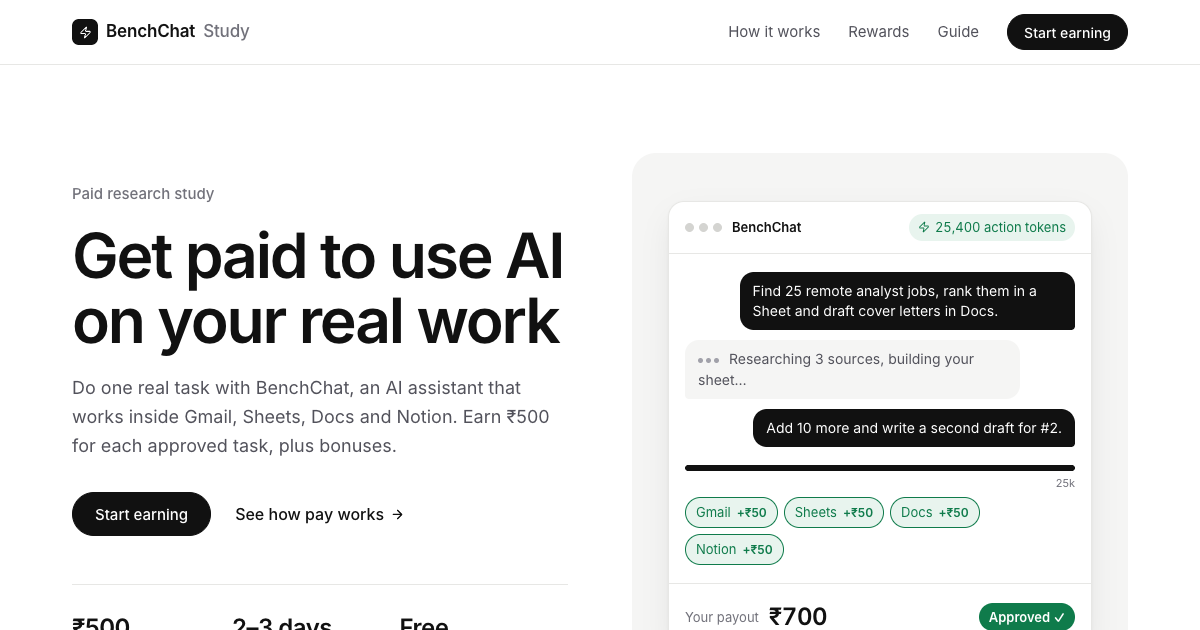
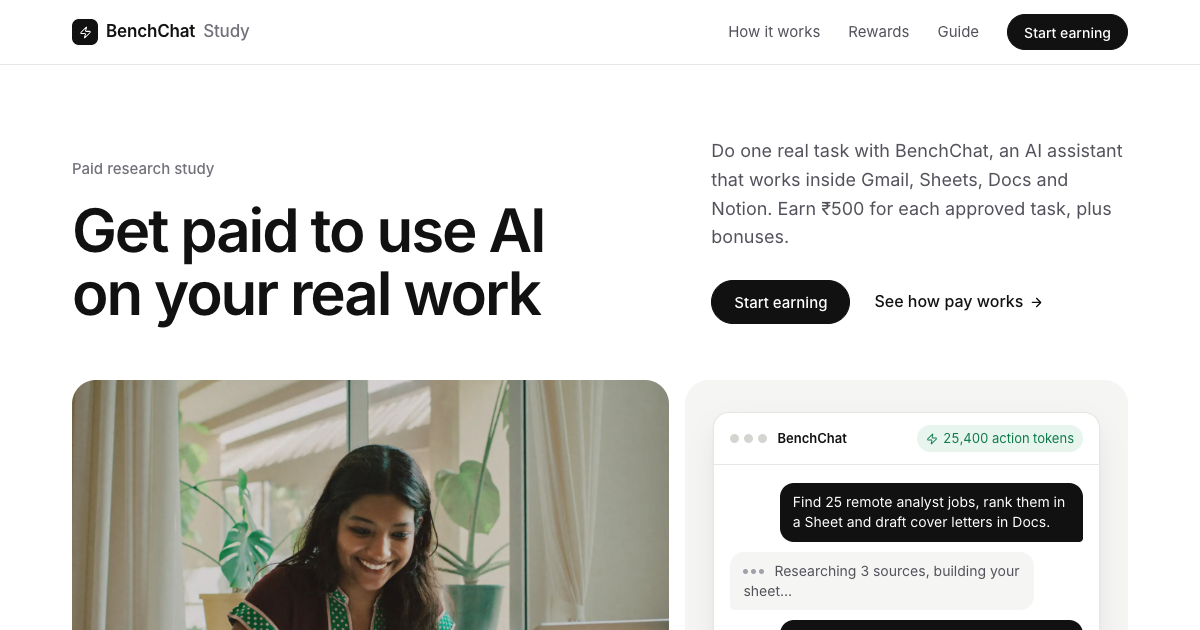
Redesign with Higgsfield-generated photography
Hero now pairs a Higgsfield (Soul V2) photo with the payout demo, adds a
'Who it's for' section and a pay section with a phone photo and a payment
toast, and a four-stat facts row. Photos stored as WebP under media/photos.

diff --git a/src/App.jsx b/src/App.jsx
@@ -1,7 +1,7 @@
 import { useEffect, useState } from 'react'
 import {
   LINKS, VIDEO, BEFORE, 
-  STEPS, TOKENS, PROMPTS, REQUIREMENTS, IDEAS, REWARDS, BONUS_APPS, QUEST,
+  STEPS, TOKENS, PHOTOS, PROMPTS, REQUIREMENTS, IDEAS, REWARDS, BONUS_APPS, QUEST,
 } from './content'
 
 const ext = { target: '_blank', rel: 'noopener noreferrer' }
@@ -139,27 +139,56 @@ function Demo() {
 function Hero() {
   return (
     <header className="hero" id="top">
-      <div className="wrap hero-grid">
-        <div className="hero-copy">
-          <p className="eyebrow">Paid research study</p>
-          <h1>Get paid to use AI on your real work</h1>
-          <p className="lede">
-            Do one real task with BenchChat, an AI assistant that works inside Gmail, Sheets, Docs and Notion.
-            Earn ₹{REWARDS.base} for each approved task, plus bonuses.
-          </p>
-          <div className="cta">
-            <a className="btn primary" href="#quest">Start earning</a>
-            <a className="text-link" href="#payment">See how pay works <Icon name="arrow" size={15} /></a>
+      <div className="wrap">
+        <div className="hero-top">
+          <div>
+            <p className="eyebrow">Paid research study</p>
+            <h1>Get paid to use AI on your real work</h1>
           </div>
-          <dl className="facts">
-            <div><dt>₹{REWARDS.base}</dt><dd>per approved task</dd></div>
-            <div><dt>2–3 days</dt><dd>to your bank or UPI</dd></div>
-            <div><dt>Free</dt><dd>no fees, ever</dd></div>
-          </dl>
+          <div className="hero-side">
+            <p className="lede">
+              Do one real task with BenchChat, an AI assistant that works inside Gmail, Sheets, Docs and Notion.
+              Earn ₹{REWARDS.base} for each approved task, plus bonuses.
+            </p>
+            <div className="cta">
+              <a className="btn primary" href="#quest">Start earning</a>
+              <a className="text-link" href="#payment">See how pay works <Icon name="arrow" size={15} /></a>
+            </div>
+          </div>
         </div>
-        <div className="stage"><Demo /></div>
+        <div className="hero-media">
+          <div className="photo"><img src={PHOTOS.hero} alt="A woman working on her laptop at home" width="1440" height="1080" /></div>
+          <div className="stage"><Demo /></div>
+        </div>
+        <dl className="facts">
+          <div><dt>₹{REWARDS.base}</dt><dd>per approved task</dd></div>
+          <div><dt>+₹{REWARDS.perApp}</dt><dd>for each app you use</dd></div>
+          <div><dt>2–3 days</dt><dd>to your bank or UPI</dd></div>
+          <div><dt>Free</dt><dd>no fees, ever</dd></div>
+        </dl>
       </div>
     </header>
+  )
+}
+
+function Who() {
+  const points = [
+    { title: 'Use your own apps', text: 'Gmail, Google Sheets, Docs, Notion, Slack. Whatever you already work in.' },
+    { title: 'Bring a real task', text: 'Something you would do anyway: research, a report, a tracker, a plan.' },
+    { title: 'About 30–45 minutes', text: 'From home, on a laptop. No coding and no experience with AI needed.' },
+  ]
+  return (
+    <section id="who">
+      <div className="wrap split">
+        <div className="photo tall"><img src={PHOTOS.who} alt="A man working on a laptop in a cafe" loading="lazy" width="900" height="1200" /></div>
+        <div>
+          <SectionHead label="Who it's for" title="Students, freelancers and professionals" />
+          <div className="points">
+            {points.map((p) => <div key={p.title}><h3>{p.title}</h3><p>{p.text}</p></div>)}
+          </div>
+        </div>
+      </div>
+    </section>
   )
 }
 
@@ -285,6 +314,7 @@ function Payment() {
     <section id="payment">
       <div className="wrap">
         <SectionHead label="Pay" title="What you earn">Up to ₹{REWARDS.maxPerTask} for a single task. Paid to your bank or UPI in about 2–3 days after approval.</SectionHead>
+        <div className="pay-wrap">
         <div className="pay">
           {rows.map((r) => (
             <div className="pay-row" key={r.title}>
@@ -292,6 +322,14 @@ function Payment() {
               <div><h3>{r.title}</h3><p>{r.when}</p></div>
             </div>
           ))}
+        </div>
+        <div className="photo">
+          <img src={PHOTOS.pay} alt="Checking a payment on a phone" loading="lazy" width="1400" height="1050" />
+          <div className="toast" aria-hidden="true">
+            <span className="toast-icon"><Icon name="check" size={16} /></span>
+            <div><b>₹{REWARDS.maxPerTask} received</b><span>BenchChat Study · task approved</span></div>
+          </div>
+        </div>
         </div>
         <p className="fine">Every task is reviewed by a person. Unfinished, non-English or padded chats are not paid, and app bonuses only count on approved tasks.</p>
       </div>
@@ -512,10 +550,11 @@ export default function App() {
     <>
       <Nav />
       <Hero />
+      <Who />
       <Quest onOpen={setOpen} />
-      <Video />
-      <Before />
       <Payment />
+      <Before />
+      <Video />
       <Guide onOpen={setOpen} />
       <SubmitBand />
       <footer>

diff --git a/src/index.css b/src/index.css
@@ -63,13 +63,28 @@ nav { position: sticky; top: 0; z-index: 10; background: rgba(255, 255, 255, .9)
 .links a:hover { color: var(--fg); }
 
 /* hero */
-.hero-grid { display: grid; grid-template-columns: 1fr 1fr; gap: 64px; align-items: center; padding-top: 88px; padding-bottom: 96px; }
-.cta { display: flex; flex-wrap: wrap; align-items: center; gap: 24px; margin-top: 32px; }
-.facts { display: flex; gap: 40px; margin: 48px 0 0; padding-top: 24px; border-top: 1px solid var(--line); }
-.facts div { display: flex; flex-direction: column; }
-.facts dt { font-size: 24px; font-weight: 600; letter-spacing: -.02em; }
-.facts dd { margin: 0; color: var(--fg-50); font-size: 14px; }
-.stage { display: grid; place-items: center; padding: 48px 36px; border-radius: 24px; background: var(--bg-soft); }
+.hero { padding-top: 72px; }
+.hero-top { display: grid; grid-template-columns: 1.4fr 1fr; gap: 56px; align-items: end; }
+.hero-top h1 { font-size: clamp(40px, 5vw, 66px); }
+.hero-side .lede { margin-top: 0; }
+.cta { display: flex; flex-wrap: wrap; align-items: center; gap: 24px; margin-top: 28px; }
+.hero-media { display: grid; grid-template-columns: 1.35fr 1fr; gap: 16px; margin-top: 56px; }
+.photo { position: relative; border-radius: 24px; overflow: hidden; background: var(--bg-soft); }
+.photo img { display: block; width: 100%; height: 100%; object-fit: cover; }
+.hero-media .photo { aspect-ratio: 4 / 3; }
+.stage { display: grid; place-items: center; padding: 32px 28px; border-radius: 24px; background: var(--bg-soft); }
+.facts { display: grid; grid-template-columns: repeat(4, 1fr); gap: 24px; margin: 0; padding: 36px 0 8px; }
+.facts div { display: flex; flex-direction: column; padding-left: 20px; border-left: 1px solid var(--line); }
+.facts dt { font-size: 28px; font-weight: 600; letter-spacing: -.02em; }
+.facts dd { margin: 0; color: var(--fg-50); font-size: 15px; }
+
+/* who + pay layouts */
+.split { display: grid; grid-template-columns: 1fr 1.1fr; gap: 64px; align-items: center; }
+.photo.tall { aspect-ratio: 4 / 5; }
+.points { display: grid; gap: 28px; }
+.points p { margin: 0; color: var(--fg-70); }
+.pay-wrap { display: grid; grid-template-columns: 1.3fr 1fr; gap: 48px; align-items: center; }
+.pay-wrap .photo { aspect-ratio: 4 / 3; }
 
 /* demo card (the payout animation) */
 .demo { width: 100%; max-width: 440px; border: 1px solid var(--line); border-radius: 16px; background: #fff; box-shadow: 0 1px 2px rgba(0, 0, 0, .04), 0 12px 32px -8px rgba(0, 0, 0, .12); overflow: hidden; }
@@ -221,7 +236,8 @@ footer a { color: var(--fg-70); }
 @media (max-width: 960px) {
   .links { display: none; }
   .bar .btn { margin-left: auto; }
-  .hero-grid { grid-template-columns: 1fr; gap: 48px; padding-top: 56px; padding-bottom: 72px; }
+  .hero-top, .hero-media, .split, .pay-wrap { grid-template-columns: 1fr; gap: 28px; }
+  .facts { grid-template-columns: repeat(2, 1fr); }
   .g3, .g2, .prompts, .cards.three, .submit { grid-template-columns: 1fr; }
   .total { grid-template-columns: 1fr; gap: 12px; }
 }
@@ -230,10 +246,16 @@ footer a { color: var(--fg-70); }
   .wrap, .bar { padding-left: 20px; padding-right: 20px; }
   h1 { font-size: 38px; }
   .lede { font-size: 17px; }
-  .facts { gap: 24px; margin-top: 36px; }
-  .facts dt { font-size: 20px; }
+  .hero { padding-top: 44px; }
+  .hero-media { margin-top: 32px; }
+  .facts { gap: 20px 12px; padding-top: 28px; }
+  .facts dt { font-size: 22px; }
   .facts dd { font-size: 13px; }
-  .stage { padding: 20px 14px; border-radius: 18px; }
+  .facts div { padding-left: 12px; }
+  .stage { padding: 16px 12px; border-radius: 18px; }
+  .photo { border-radius: 18px; }
+  .pay-wrap .photo { display: none; }
+  .photo.tall { aspect-ratio: 4 / 3; }
   .demo-body { min-height: 0; }
   section > .wrap { padding-top: 64px; padding-bottom: 64px; }
   .sec-head { margin-bottom: 28px; }
@@ -251,3 +273,10 @@ footer a { color: var(--fg-70); }
 @media (prefers-reduced-motion: reduce) {
   .typing i { animation: none; }
 }
+
+/* floating payment toast on the pay photo */
+.toast { position: absolute; left: 24px; bottom: 24px; display: flex; align-items: center; gap: 12px; padding: 12px 16px 12px 12px; border-radius: 14px; background: rgba(255, 255, 255, .96); box-shadow: 0 10px 30px -8px rgba(0, 0, 0, .25); }
+.toast-icon { display: grid; place-items: center; width: 34px; height: 34px; border-radius: 50%; background: var(--money); color: #fff; }
+.toast b { display: block; font-size: 15px; }
+.toast span { display: block; color: var(--fg-50); font-size: 13px; }
+.hero-media .photo img { object-position: 40% 50%; }

diff --git a/src/content.js b/src/content.js
@@ -11,6 +11,13 @@ export const VIDEO = {
   poster: '/media/bench-howto-poster.jpg',
 }
 
+// Photos generated with Higgsfield (Soul V2) for this site.
+export const PHOTOS = {
+  hero: '/media/photos/hero.webp',
+  who: '/media/photos/who.webp',
+  pay: '/media/photos/pay.webp',
+}
+
 const img = (name) => `/media/steps/${name}.webp`
 
 // Reward rules. Change the numbers here and the whole page (hero, quest, calculator) updates.
